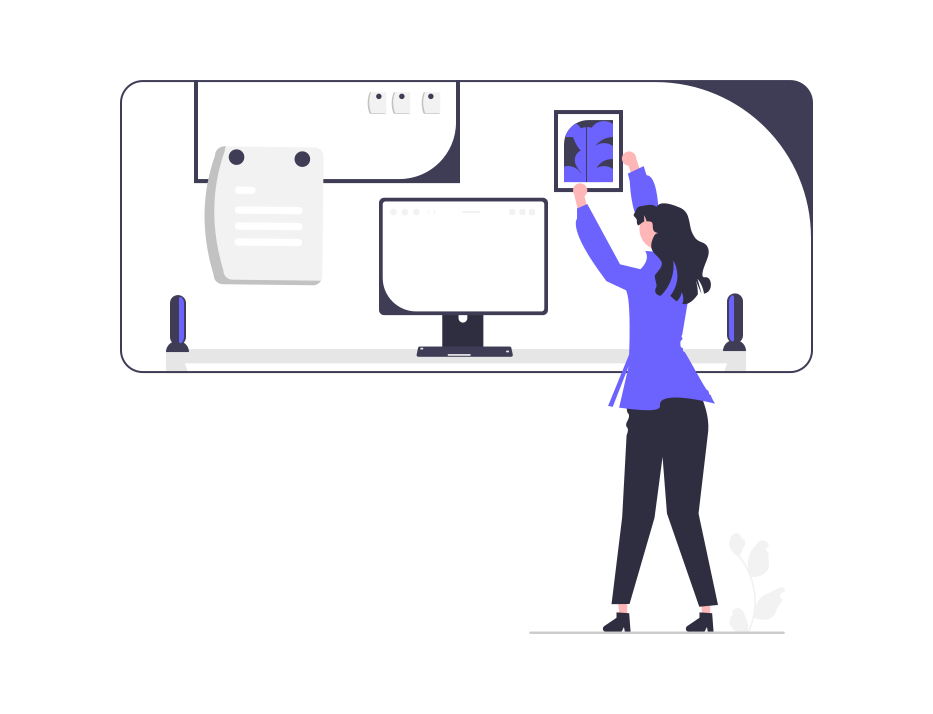
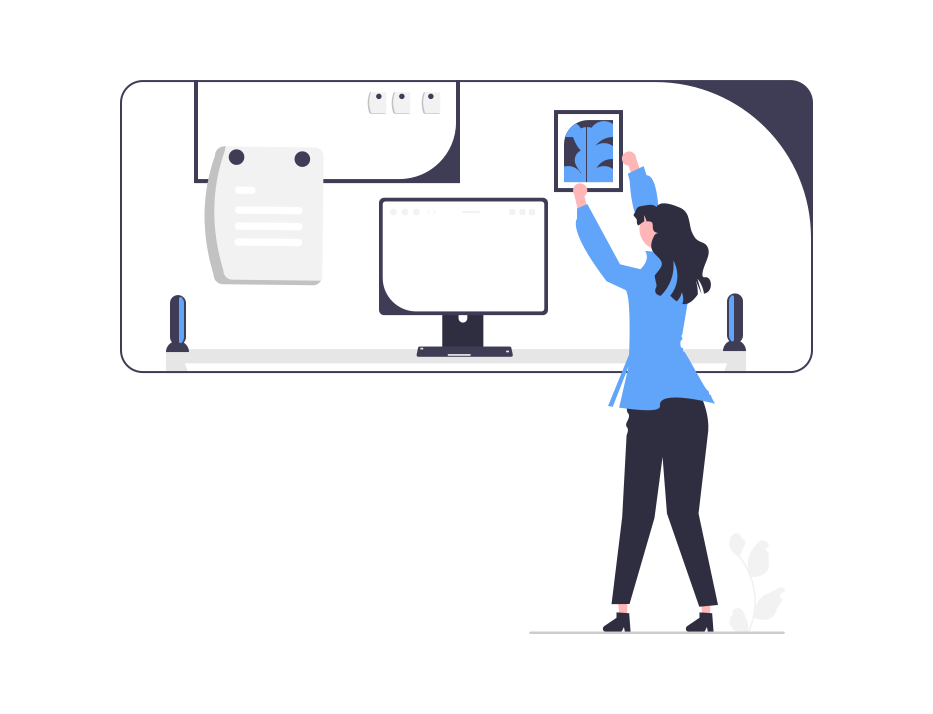
alhamdulillah quiz app done

Changed region(s): [[0.5906, 0.1541, 0.7771, 0.5854], [0.7771, 0.4314, 0.8081, 0.4622], [0.1865, 0.4314, 0.2176, 0.4622]]

diff --git a/src/Components/Contact.js b/src/Components/Contact.js
@@ -50,7 +50,7 @@ const Contact = () => {
             ></iframe>
 
             <div className="bg-white relative flex flex-wrap py-6 rounded shadow-md">
-              <div className="lg:w-1/2 px-6">
+              <div className="lg:w-1/2 sm:h-1/6 px-6">
                 <h2 className="title-font font-semibold text-gray-900 tracking-widest text-xs">
                   ADDRESS
                 </h2>
@@ -78,9 +78,11 @@ const Contact = () => {
             </div>
           </div>
           <div className="lg:w-1/2 md:w-1/2 bg-white flex flex-col md:ml-auto w-full md:py-8 mt-8 md:mt-0">
-            <h2 className="text-primary text-4xl font-bold title-font mb-5">
+            <h2 className="text-[#60A5FA] text-4xl font-bold title-font mb-5">
               Contact{" "}
-              <span className="text-accent border-b-2 border-primary">Me</span>
+              <span className="text-[#570DF8] border-b-2 border-primary">
+                Me
+              </span>
             </h2>
 
             <form onSubmit={sendEmail} ref={form}>

diff --git a/src/Components/Quiz.js b/src/Components/Quiz.js
@@ -1,5 +1,6 @@
 import React from "react";
 import { NavLink } from "react-router-dom";
+import image1 from "../image/undraw_Quiz_re_aol4 (1).png";
 
 const Quiz = () => {
   // const handleKeyDown = (event) => {
@@ -10,8 +11,11 @@ const Quiz = () => {
   // };
 
   return (
-    <div className="py-20">
-      <div className="bg-blue-400 w-3/6 mx-auto p-20 rounded-md">
+    <div className="px-20 grid grid-cols-1 md:grid-cols-2 gap-2">
+      <div>
+        <img src={image1} alt="" />
+      </div>
+      <div className="bg-blue-400 w-3/6 h-3/6 my-auto p-16 rounded-md">
         <h1 className="text-center mb-10 text-4xl text-white font-bold">
           Keep going by clicking here
         </h1>

diff --git a/src/Components/Home.js b/src/Components/Home.js
@@ -1,5 +1,5 @@
 import React from "react";
-import image1 from "../image/undraw_Online_test_re_kyfx.png";
+import image1 from "../image/undraw_Interior_design_re_7mvn.png";
 import Activity from "./Activity";
 import Contact from "./Contact";
 import Pricing from "./Pricing";
